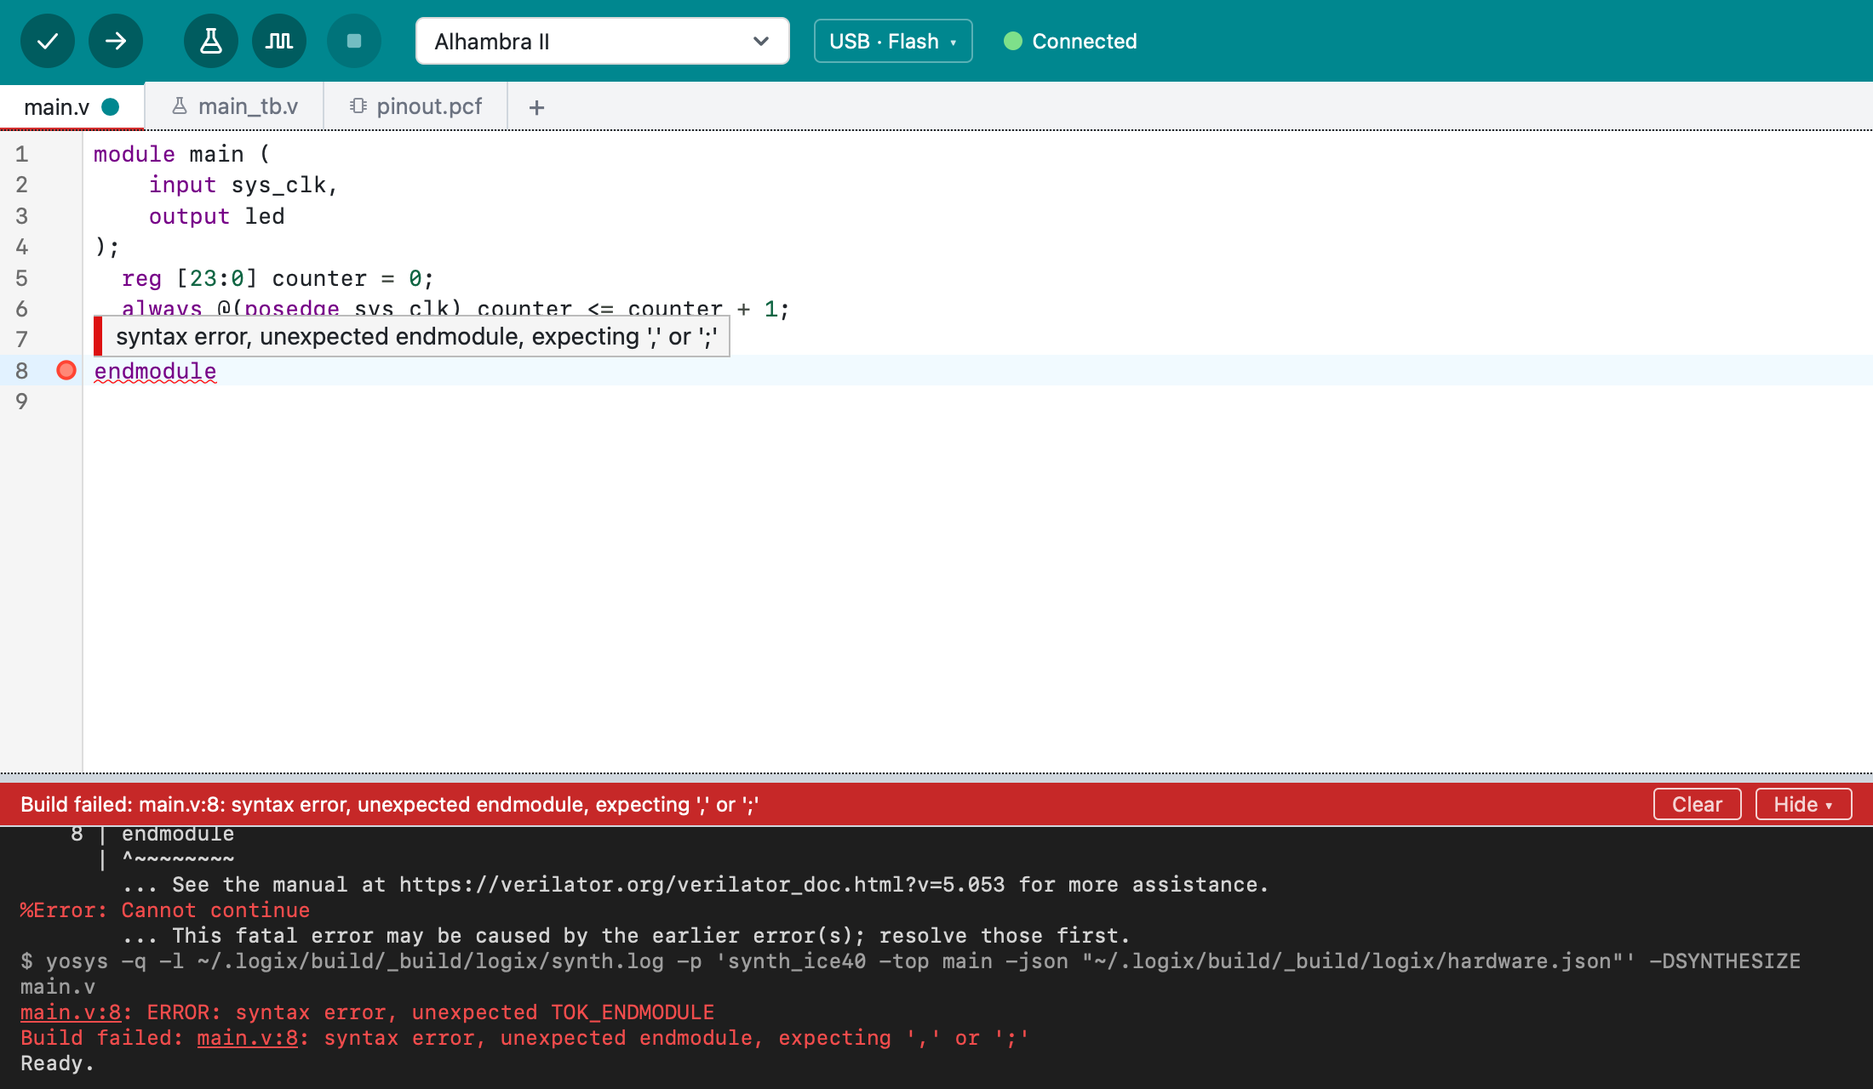
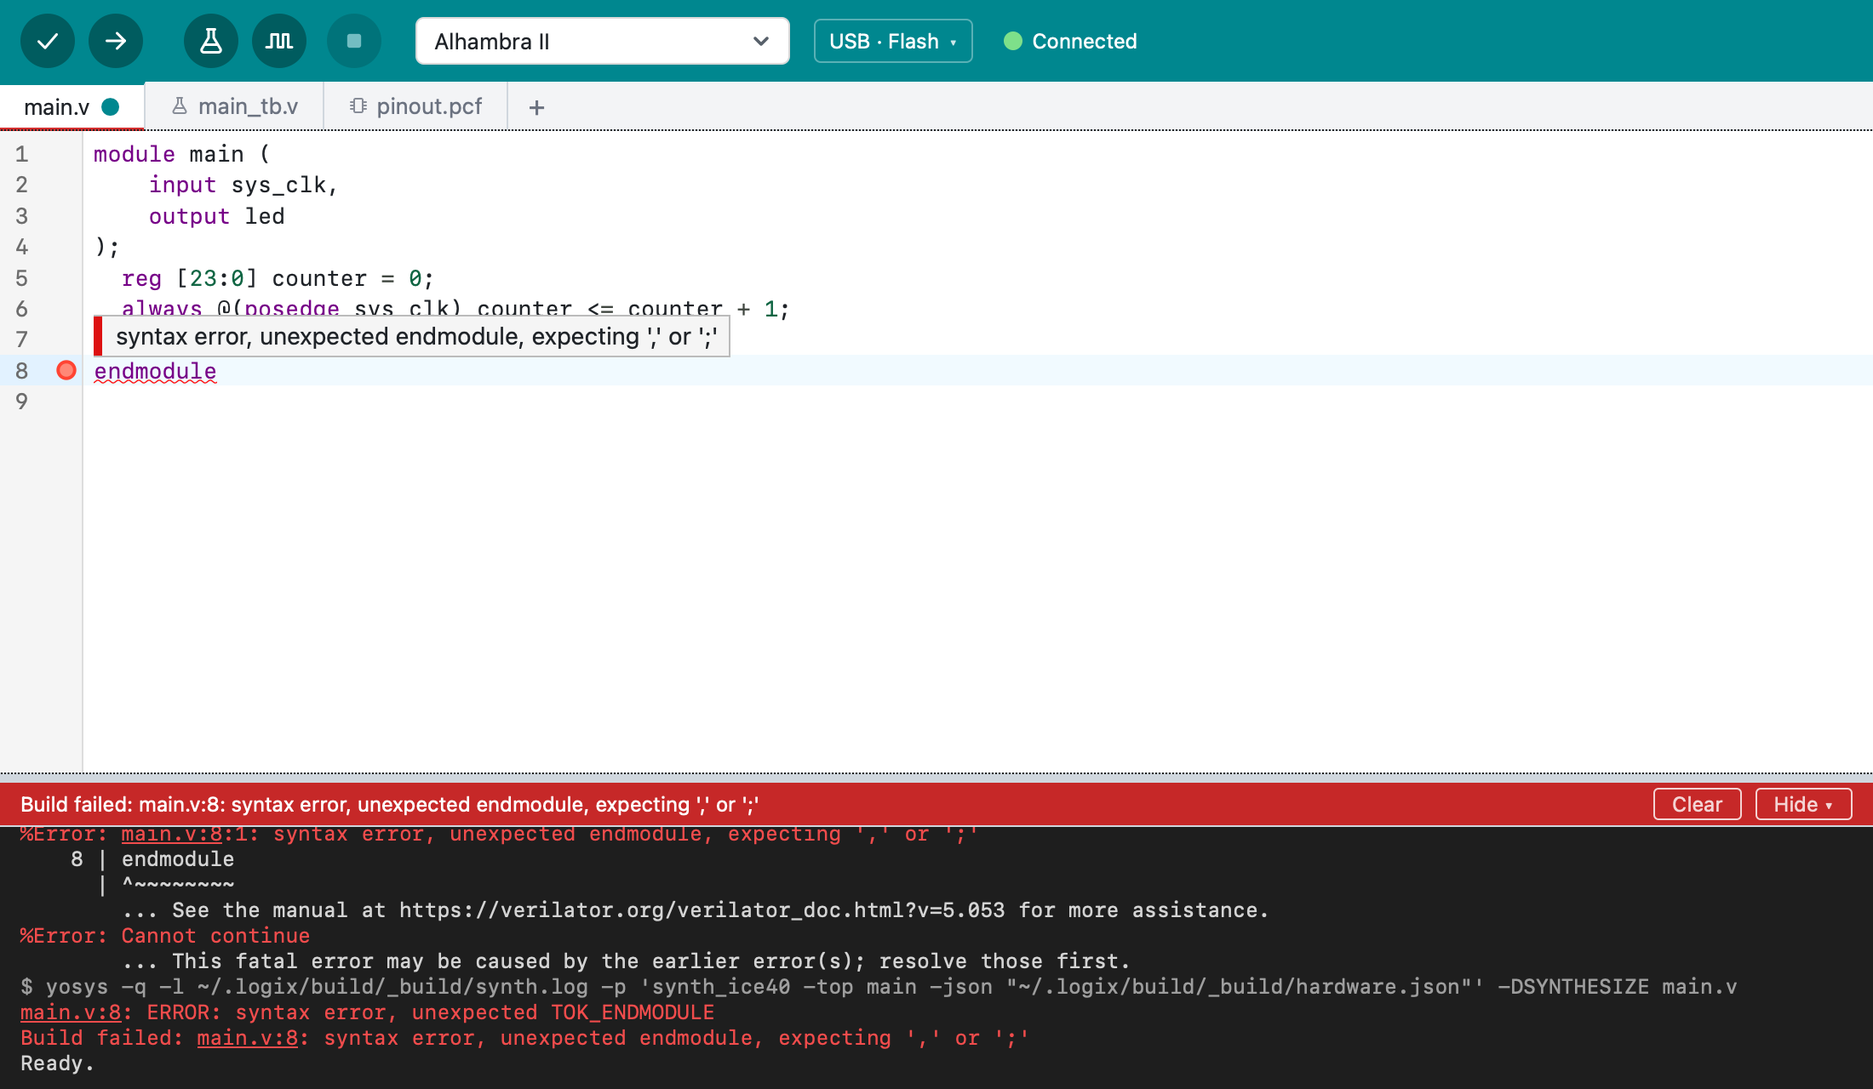
Build folder: _build, without the logix subfolder
The engine only needs "build" in one of the build folder's last two names,
so ~/.logix/build/_build is enough. Fixtures and screenshots follow.

Changed region(s): [[0.0, 0.75, 0.9582, 0.9375], [0.2473, 0.75, 0.4636, 0.7812]]

diff --git a/src-tauri/src/engine/task.rs b/src-tauri/src/engine/task.rs
@@ -48,11 +48,11 @@ pub struct TaskInput<'a> {
     pub target: Option<&'a str>,
 }
 
-/// The engine's build folder inside the prepared folder. The engine wants
-/// "build" in one of its last two names; `_build` is kept between builds
-/// of the same project (`build_dir`), so up-to-date builds are fast.
+/// The engine's build folder inside the prepared folder: `_build` (the
+/// engine wants "build" in one of its last two names). It is kept between
+/// builds of the same project (`build_dir`), so up-to-date builds are fast.
 pub fn build_folder(source_folder: &Path) -> PathBuf {
-    source_folder.join("_build").join("logix")
+    source_folder.join("_build")
 }
 
 /// The design files: Verilog and SystemVerilog sources, without

diff --git a/CLAUDE.md b/CLAUDE.md
@@ -127,7 +127,7 @@ Don't run `npm run tauri build` locally; installers come from the GitHub workflo
 - **Examples** (`examples/<board>/<name>/`, 124 for the engine's boards): each is a Logix project, its files plus a `logix-ide.toml` with `board` and `description` (the description is only for the Examples dialog; saving an opened example writes a fresh project file). They were imported from Apio's examples (apio-definitions `2026-10-26`) by `scripts/import-apio-examples.py <apio examples folder> <catalog.json with the engine's boards>`, which keeps the ones Logix can open as they are (top-level `main.v`/`main.sv`, no subfolders, an `apio.ini` with one env for the example's board, `top-module = main` and only `board`/`top-module`/`default-testbench`), drops `apio.ini`, `info` and hidden files, renames Apio's commands in comments (Run Tests, Simulate), and replaces the testbenches' Apio check macro (multi-line, `$display` plus `if (!`APIO_SIM) $fatal`, an `assertion_err` flag) with a one-line `EXPECT_EQ` that calls `$error`, as the engine recommends (it stops Run Tests at the first error and lets Simulate run on); the flag's trace goes from the `.gtkw` layouts too. The examples are now Logix's own, edited here; rerun the script only to import more from Apio. The `alinx-ax7035` blinky came in through a scratch copy of Apio's examples whose `apio.ini` for it kept only the board and top module (Apio's has two envs that only change the blink rate; `main.v`'s default is kept). **Hand-written blinkies** for boards without an Apio example (`arice1`, `icenode`, `ecp5-mini-12`, `ecp5-mini-25`, `thetamachines-eth4k`, `sipeed-tang-primer-20k`): written for Logix in the examples' style (`main.v`, `main_tb.v`, `main_tb.gtkw`, pin file; the UP5K boards' RGB LED through `rgb_driver.v` with `SB_RGBA_DRV`), from each board's own published pins (ARiCE: `pcossutta/arise` example and BOM, 12 MHz; ICENode: `Lundal-ING/ICENode` `hardware/icenode.pcf`, 12 MHz; ECP5-Mini: `joshajohnson/ecp5-mini-projects` r0.2 LPF, 16 MHz clock B9, LED B2; ETH4K: its KiCad schematic labels, 25 MHz on 52, LED1 on 41 (its `.net` file is stale); Tang Primer 20K Lite: no user LEDs, so it blinks a segment of an iCEBreaker 7-segment PMOD on the top-right PMOD, pins as in Apio's example, written anew since Apio's carries a GPL header). Not tried on hardware, so their description ends with "(not yet tried on the board)" and `main.v` says so; drop that once a user confirms one. `soan-papdi-mini` has no example: no pinout is published (TODO(revisit)). Examples for boards the engine doesn't offer are hidden (`catalog` in `commands.rs`; `hidden` in the list, normally 0). The board and example lists are cached in `AppState.catalog` for the run.
 - **Bare Minimum** (as Arduino's File > Examples > 01.Basics > BareMinimum): the first entry of every board in the Examples dialog (`BARE_MINIMUM` in `ui/src/lib/examples.ts`; boards without examples are listed for it). `open_bare_minimum` takes the board's starter example and `src-tauri/src/bare.rs` keeps only its pin file plus a `main.v` with the starter's ports and `assign <output> = 0;`. Why not an empty `main` with the pin file: the examples' pin files list only the pins that example uses, iCE40 rejects a port without a pin (`--pcf-allow-unconstrained`), and an empty design fails with "Failed to autodetect top module". A board without a starter gets `bare::NO_PINS_MAIN` (placeholder ports and a note to add a pin file); `new_project` gives the same Bare Minimum. A unit test checks every starter gives one; `real_examples_build` builds them.
 - **Opening an example** gives an unsaved project (`dir: null`) with `templateDir` set to the folder it was written to (`~/.logix/example/`, replaced by the next example) and the board set. The first save asks for a location and copies the example's other files (e.g. `main_tb.gtkw`) from `templateDir`; its project file and hidden files are skipped. UI: `ui/src/lib/ExamplesDialog.svelte`, with search and grouping in `ui/src/lib/examples.ts`.
-- **Verify / Upload** (toolbar, Cmd+R / Cmd+U, Project menu): `run_task` builds from the project's **in-memory** files (unsaved edits included) in `~/.logix/build/`. `src-tauri/src/build_dir.rs` (plain Rust, tested) fills that folder with the files and the other contents of the project folder (or example template), subfolders included (the engine builds only the files Logix lists), except nested projects (folders with a project file, `project::is_project_dir`; `CopyMode::Build`). The folder is reused for the same project (key = project folder) so `_build/` (the engine's `_build/logix/`) speeds up repeated builds; another project starts from an empty folder. Every task runs on the engine (`engine::run_task`, `engine/task.rs`) with that folder as `source_folder`, `_build/logix` as `build_folder` (it needs "build" in one of its last two names), top module `main`, the project's `.v`/`.sv` files minus testbenches as `source_files` (include files are found by the engine), and the pin file as `constraint_file`: the first one of the board's kind (`engine::constraint_extension`: `.pcf` iCE40, `.lpf` ECP5, `.cst` Gowin, `.xdc` Xilinx, any case; `build_dir::constraint_file`), else the first pin file of any kind. The engine refuses a pin file of another family's kind (each family's place-and-route tool reads only its own format and takes the format from its option, not the file name, so before this check a PCF renamed to `.lpf` built on iCE40 as if nothing were wrong); `friendly` turns that error into "The pin file pinout.lpf is the wrong kind for this board. … rename it to pinout.pcf." No pin file: the error `NO_CONSTRAINT_FILE`, also explained by `friendly`. A board that isn't in the engine's catalog is refused with a plain message before anything runs. Only one task runs at a time (`AppState.task`).
+- **Verify / Upload** (toolbar, Cmd+R / Cmd+U, Project menu): `run_task` builds from the project's **in-memory** files (unsaved edits included) in `~/.logix/build/`. `src-tauri/src/build_dir.rs` (plain Rust, tested) fills that folder with the files and the other contents of the project folder (or example template), subfolders included (the engine builds only the files Logix lists), except nested projects (folders with a project file, `project::is_project_dir`; `CopyMode::Build`). The folder is reused for the same project (key = project folder) so `_build/` (the engine's build folder) speeds up repeated builds; another project starts from an empty folder. Every task runs on the engine (`engine::run_task`, `engine/task.rs`) with that folder as `source_folder`, `_build` as `build_folder` (it needs "build" in one of its last two names; a `logix` subfolder under it was dropped as unneeded, the user's decision), top module `main`, the project's `.v`/`.sv` files minus testbenches as `source_files` (include files are found by the engine), and the pin file as `constraint_file`: the first one of the board's kind (`engine::constraint_extension`: `.pcf` iCE40, `.lpf` ECP5, `.cst` Gowin, `.xdc` Xilinx, any case; `build_dir::constraint_file`), else the first pin file of any kind. The engine refuses a pin file of another family's kind (each family's place-and-route tool reads only its own format and takes the format from its option, not the file name, so before this check a PCF renamed to `.lpf` built on iCE40 as if nothing were wrong); `friendly` turns that error into "The pin file pinout.lpf is the wrong kind for this board. … rename it to pinout.pcf." No pin file: the error `NO_CONSTRAINT_FILE`, also explained by `friendly`. A board that isn't in the engine's catalog is refused with a plain message before anything runs. Only one task runs at a time (`AppState.task`).
 - **Verify = lint + build**: for `Task::Build`, the engine's `lint` runs first (unless "Show lint warnings on Verify" is off) for warnings and clearer errors. Lint fails for warnings too, so its result never stops the build; only `build` decides success. Upload is `build` then `program_board` (not attempted if the build failed). Repeated problems (lint and build flagging the same line) are dropped by `dedup`, keeping lint's. The engine's diagnostics map one to one (`info` shows as a warning); a failed step without an located error adds its message, plus the action's description (e.g. "No Alhambra II is connected. Connect the Alhambra II by USB, then retry."), as an error without a location, and its action code goes to `TaskOutcome.action`. The console shows the engine's live output: command lines dimmed with `$`, error lines red, warnings yellow, and the message of a failed step in red (not for design errors, whose message repeats the tool's line). A progress bar's redraws (one line each from the engine) are collapsed to the last one (`Console` in `engine/task.rs`, by the pattern `label [bar] n%`, TODO(revisit)). The engine's phases ("Synthesizing", "Placing and routing", "Writing flash" with its percentage) go to the status bar as `TaskEvent::Progress`. After success, the build's `resources_usage` and `timing` become the report: the UI logs "The design uses 27 of 7680 logic cells (0.4%)." and "Maximum clock speed: 194.4 MHz (sys_clk)." (`reportLines`, as Arduino's "Sketch uses …"), and the status bar summary ("Uses 0.4% of logic cells, max clock 194.4 MHz"); `ui/src/lib/buildReport.ts` uses plain per-family names (iCE40, ECP5, Gowin, Xilinx; unknown families use the toolchain's names).
 - **Run Tests / Simulate** (toolbar flask and waveform icons, Shift+Cmd+T / Option+Cmd+T, Project menu, right-click on a testbench tab): `Task::Test` runs the engine's `test` with the chosen testbench or all `*_tb.v`/`*_tb.sv` as `testbench_files` (the engine runs every testbench, each stopped at its first failure, with a 10-minute default limit); each result becomes a `TestbenchResult`, its diagnostics (`$error`, `$fatal`, Apio's assertion lines, at file, line and time) are marked, and an `ending` of `timeout`, `sim_time_limit` or `no_finish` adds a plain note (`ending_note`). `Task::Simulate` runs the engine's `simulate` on one testbench with `layout_file` `<testbench stem>.gtkw` next to it: the engine runs it to the end, writes a default layout there unless the user saved one (zoomed around the first failure), and starts GTKWave detached, failing or not. A failing simulation also returns its `TestbenchResult`, so the status says "The testbench failed (GTKWave shows the signals): …" (`outcomeText`). Simulate uses the open testbench tab or the project's only testbench. `run_task` only accepts project files matching `project::is_testbench`. Testbenches follow the engine's rules (report failures with `$error`, never call `$dumpfile`; see the engine's `docs/tool-api.md`, Writing testbenches). New `*_tb.v` files start from a testbench template (`starterText` in `workingProject.ts`).
 - **Auto Format** (Tools menu, Cmd+T, as in the Arduino IDE; Cmd+T was taken from Run Tests for this): formats the open Verilog/SystemVerilog file with the engine's `format` (Verible; `engine/format.rs`). `format_file` writes the text into a one-file scratch folder (`build_dir::prepare_single`, `~/.logix/format/`), formats it there, shows Verible's command line in the console, and returns the result. The editor applies it as one undoable edit (`Editor.replaceText`) and leaves the file unsaved. Messages match Arduino's: "Auto Format finished." / "No changes necessary for Auto Format." Verible's errors come back as the engine's diagnostics and are marked like build errors.
@@ -139,7 +139,7 @@ Don't run `npm run tauri build` locally; installers come from the GitHub workflo
   - **UI** (the user's decisions): picking a board opens nothing extra (it takes the default). For every board, the toolbar shows a summary next to the board picker, the value of every dimension (e.g. "USB · Flash", "FT232H adapter · RAM") (e.g. "FT232H adapter · RAM", `summary`; no "untested" tag there: it was too intrusive, the user's decision, so only the panel's Note says it, in normal text); clicking it opens a small panel (`ui/src/lib/VariantPanel.svelte`): one section per dimension, even a single value, its label above its values as radio buttons (the standard control for one exclusive choice; segmented buttons wrapped and made the dimensions run together; drawn in CSS, a teal ring and dot, since the app's web view ignores `accent-color` and draws the selected radio as a faint dot), sections divided by a line, values without a configuration for the other current values dimmed but still clickable, under each section the selected value's `help`, aligned with the section heading, not indented under the last option (e.g. RAM: "Faster to upload; lost when the board is powered off."; also the tooltip), and the configuration's `user_notes` and untested warning in their own last section, "Note" (they're about the whole choice, not one dimension) (choosing one switches the others to the first configuration that has it; the status names what changed: `choose`). The same choices are Tools submenus, one per dimension (`menu::VariantMenu`, check items `variant:<dimension>:<value>`, from the menu state's `variantMenus`).
   - **Tasks**: `run_task` passes the variant to the engine's lint, build, test and simulate (the engine rebuilds from scratch when it changes, and Upload programs as built). The output names it ("Building … for Icesugar Pro (RAM)…"), The "Connected" label checks the chosen configuration: `connected_boards` lists, per board, the configurations whose USB filter matched (`variants`), from rules for every configuration (`engine/devices.rs`).
 - **GTKWave to the front**: GTKWave is started in the background by the engine's `simulate`, so on macOS its window would stay behind Logix. `run_task` notes the GTKWave processes running before a simulation; afterwards (if a testbench result came back) `bring_gtkwave_to_front` (`commands.rs`) waits up to ~8 s for the new one and activates it through `platform::bring_app_to_front` (macOS: Logix yields activation, then the target is activated, which needs no permissions; native calls run on the main thread). The dev terminal shows `[logix] Brought GTKWave ...` or `Didn't find ...`.
-- **Diagram** (Project > Show Diagram, Shift+Cmd+D): `Task::Graph` runs the engine's `graph` with the module as `top_module` (`main` by default) in the build folder (like Verify: unsaved edits, Stop, errors marked) and returns its `graph_file` (`_build/logix/graph.svg`) as `graphSvg`. The engine gives yosys absolute paths, so process labels would read `/Users/you/.logix/build/main.v:5.14-5.25`; `relative_paths` drops the folder (TODO(revisit): ask the engine to label them relative to the source folder). `ui/src/lib/DiagramDialog.svelte` shows it inside Logix as an `<img>` data URL (so nothing in the SVG can run), with Fit/zoom and a module picker (`projectModules`: modules in non-testbench Verilog files, `main` first). `run_task` only accepts plain identifiers as the module (`project::is_verilog_identifier`).
+- **Diagram** (Project > Show Diagram, Shift+Cmd+D): `Task::Graph` runs the engine's `graph` with the module as `top_module` (`main` by default) in the build folder (like Verify: unsaved edits, Stop, errors marked) and returns its `graph_file` (`_build/graph.svg`) as `graphSvg`. The engine gives yosys absolute paths, so process labels would read `/Users/you/.logix/build/main.v:5.14-5.25`; `relative_paths` drops the folder (TODO(revisit): ask the engine to label them relative to the source folder). `ui/src/lib/DiagramDialog.svelte` shows it inside Logix as an `<img>` data URL (so nothing in the SVG can run), with Fit/zoom and a module picker (`projectModules`: modules in non-testbench Verilog files, `main` first). `run_task` only accepts plain identifiers as the module (`project::is_verilog_identifier`).
 - **GTKWave layouts**: the simulation's source folder is the build folder, so the layout GTKWave opens (`main_tb.gtkw`, copied from the project if it has one) and saves is there. `build_dir::save_back_gtkw` copies `.gtkw` files without a generated-layout marker ("GENERATED AUTOMATICALLY BY LOGIX ENGINE", or Apio's "... BY APIO") back to the (saved) project folder, if the build folder belongs to that project and the file changed. It runs before each task (preparing clears the build folder) and when the window regains focus (`save_gtkwave_layouts`), and logs what it saved.
 - **Live errors while typing**: Verible's language server (`verible-verilog-ls`, from the engine's `verible` package: `engine::program_path` reads the package's `bin_folder` from `get_engine_info`) runs with `--ruleset=none` (syntax errors only; Verible's style rules would flood beginners) and `--lsp_enable_hover=true`. The backend only relays messages (`src-tauri/src/language_server.rs` frames them; `lsp_start`, `lsp_send`, `lsp-message`/`lsp-closed` events). The UI speaks the protocol with `@codemirror/lsp-client` (`ui/src/lib/lsp.ts`: diagnostics, hover (own handler: skips empty answers and `tidyVeribleHover` drops Verible's "### data/net/var/instance" category title, keeping the name and e.g. "Type: reg [23:0]"), F12 jump to definition; not its formatter, since Auto Format uses Apio). The editor attaches each Verilog document through a compartment (`lspSlot`), with the file's real path as its address (a placeholder for unsaved projects). Only the shown tab is open in the server. It starts after the FPGA tools are ready and restarts if it stops; Settings can turn it off ("Check code while typing", default on: `lsp_stop`) and hover is off unless "Show info when hovering" is on (`setHoverEnabled`), both applied on OK without a restart; the fake backend never answers, so e2e tests and screenshots run without it. Live diagnostics and Verify's share the editor's lint markers; each replaces the other's.
 - **Diagnostics**: every task's problems come from the engine as diagnostics (file relative to the source folder, line, column, severity, text; `info` shows as a warning), mapped one to one by `diagnostics` in `engine/task.rs`. Build folder file names equal project file names, so no path mapping is needed. The editor shows them with `@codemirror/lint` (gutter, underline, hover). Tabs with problems get a red or yellow underline, and a failed task jumps to the first error.
@@ -186,7 +186,7 @@ All Tauri commands are in `commands.rs`, registered in `lib.rs` and wrapped in `
 ## Files Logix writes
 
 - **`logix-ide.toml`** (in the project): `board = "<board id>"`, after a first line `# Logix IDE project settings.` in new files, and for a board variant that isn't the default a `[variant]` table (e.g. `memory = "ram"`). **Decided** (with reasons): named for the IDE, since each Open Logix frontend owns its project model (a shared `logix.*` could collide with other frontends' files); TOML because it allows comments, and Logix edits it with `toml_edit`, which changes only its own values and keeps the user's comments, layout and other settings (JSONC would make that harder). Projects from before (with `logix.json`) aren't supported (the user's decision: pre-release).
-- **`~/.logix/`**: `engine-bin/` (the unpacked engine package plus `download-metadata.json` with its source URL; a different pinned URL triggers a re-download), `engine-tmp/` (its download and unpacking), `engine/` (the engine folder, owned by the engine: packages, logs, scratch), `build/` (Verify etc.; the engine's output in `_build/logix/`), `example/` (the last opened example), `format/` (Auto Format), `logs/`, and `settings.json`: `lastProject`, `recentProjects`, `lastBoard`, `lastVariant` (only when not the default), `projectsDir`, `editorFontSize` (default 13, 8 to 32), `uiScale` (percent, 50 to 300; unset means automatic), `theme`, `lintOnVerify`, `liveChecking`, `hoverInfo`, `showOutput` (`onCommand` default, `onError`, `never`).
+- **`~/.logix/`**: `engine-bin/` (the unpacked engine package plus `download-metadata.json` with its source URL; a different pinned URL triggers a re-download), `engine-tmp/` (its download and unpacking), `engine/` (the engine folder, owned by the engine: packages, logs, scratch), `build/` (Verify etc.; the engine's output in `_build/`), `example/` (the last opened example), `format/` (Auto Format), `logs/`, and `settings.json`: `lastProject`, `recentProjects`, `lastBoard`, `lastVariant` (only when not the default), `projectsDir`, `editorFontSize` (default 13, 8 to 32), `uiScale` (percent, 50 to 300; unset means automatic), `theme`, `lintOnVerify`, `liveChecking`, `hoverInfo`, `showOutput` (`onCommand` default, `onError`, `never`).
 - **No-pins `main.v`** (`bare::NO_PINS_MAIN`, for boards without a starter example): a comment that the top module must be named `main` and that a pin file is needed, then `module main` with ports `input CLK` and `output LED0` and "Your design goes here."
 - Reserved names that are never project files: `logix-ide.toml`, `apio.ini` (Apio's project file, in projects made with Apio), `_build`.
 
